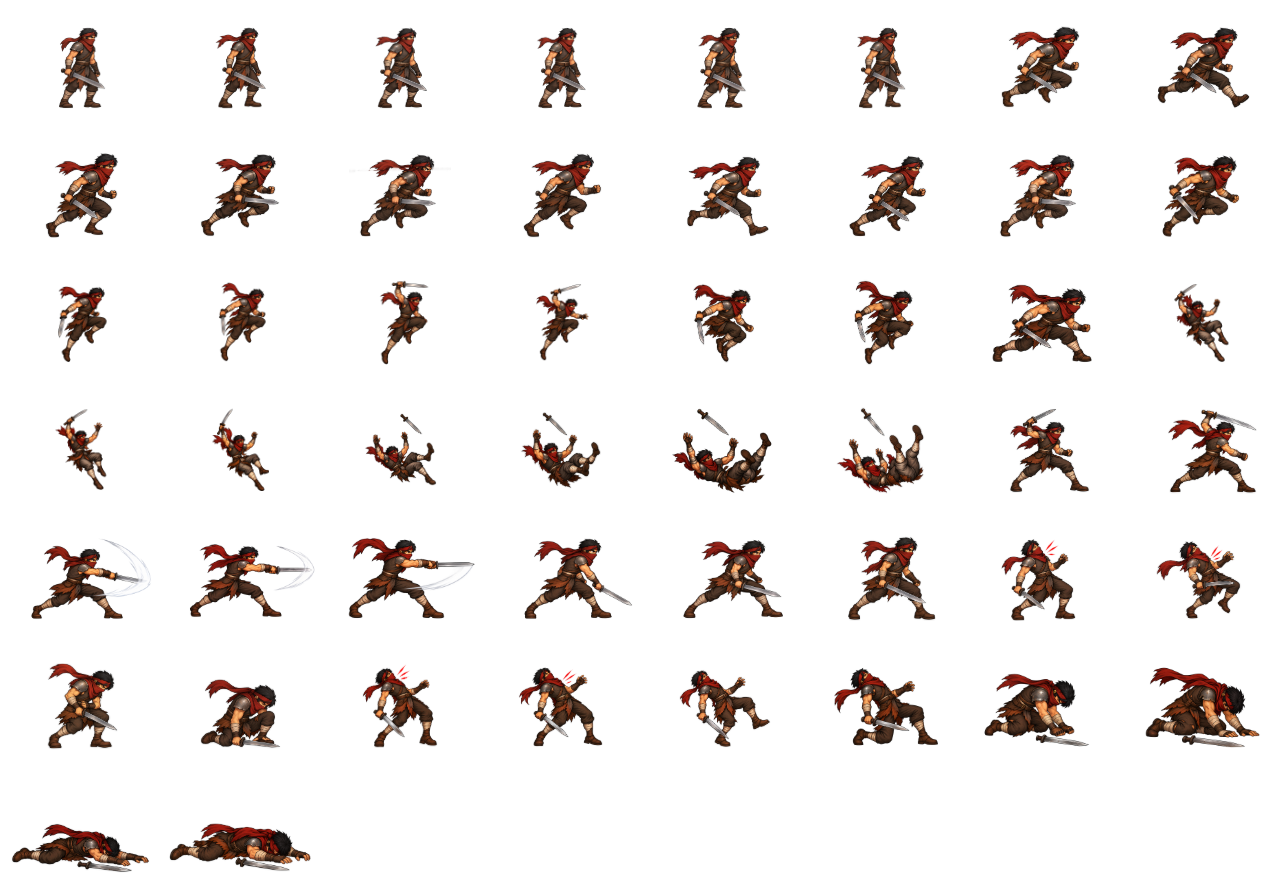
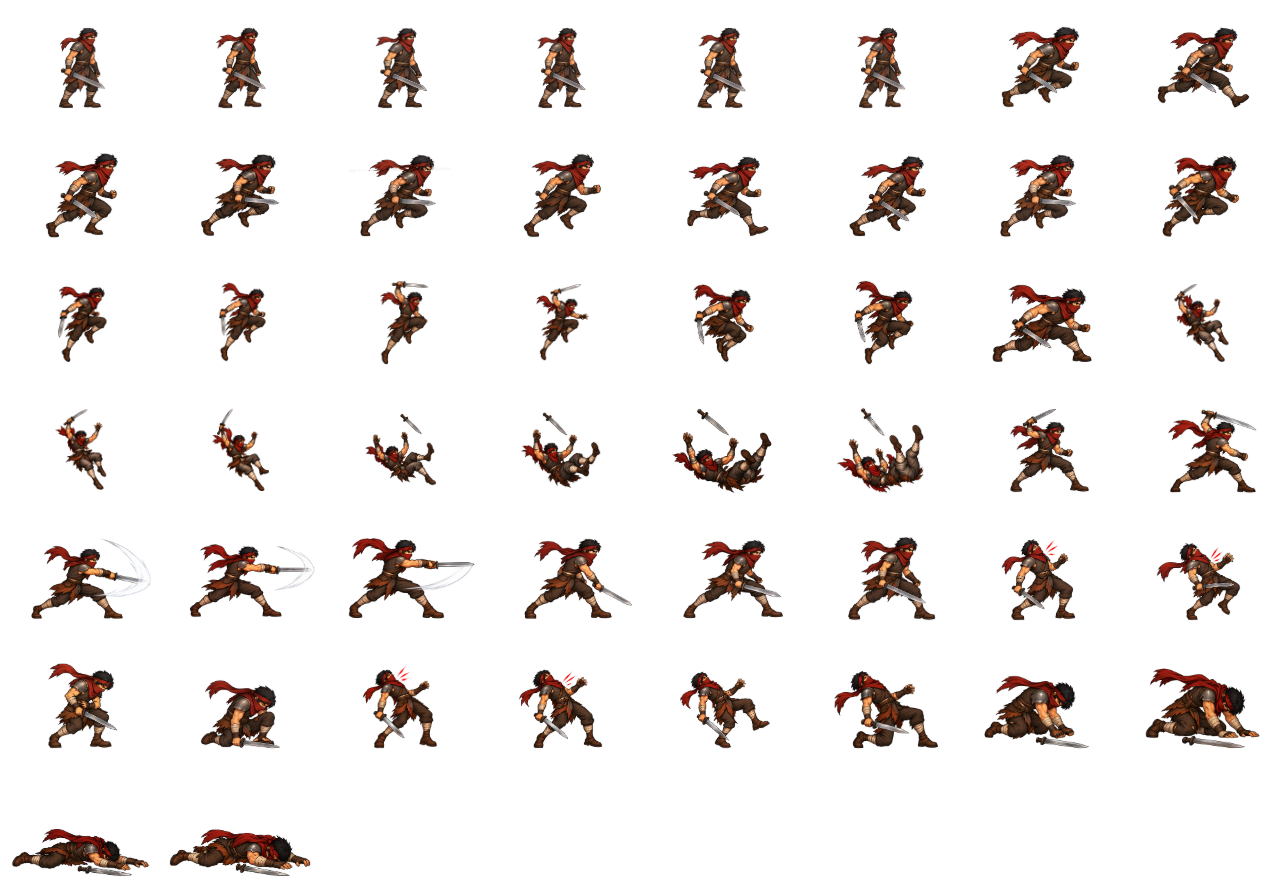
enemy fix

diff --git a/src/game/entities/Raider.js b/src/game/entities/Raider.js
@@ -27,7 +27,7 @@ export default class Raider extends Phaser.Physics.Arcade.Sprite {
   update(player, delta) {
     this.elapsed += delta;
     if (this.dead) {
-      if (!this.deathUntil && (this.body.blocked.down || this.y > this.scene.killY)) { this.animate('death'); this.deathUntil = this.elapsed + 700; }
+      if (!this.deathUntil && ((this.body.blocked.down && this.body.velocity.y >= 0) || this.y > this.scene.killY)) { this.setVelocity(0); this.animate('death'); this.deathUntil = this.elapsed + 700; }
       if (this.deathUntil && this.elapsed >= this.deathUntil) { this.emit('coin-drop', { x: this.x, y: Math.min(this.y, 480) - 12, count: this.coinDrop }); this.destroy(); }
       return;
     }
@@ -87,13 +87,18 @@ export default class Raider extends Phaser.Physics.Arcade.Sprite {
     if (!guarded) this.health = Math.max(0, this.health - amount);
     if (!guarded || broken) {
       this.hurtUntil = this.elapsed + (broken ? 900 : 220); this.state = 'hurt'; this.animate('hurt');
-      this.setVelocity(this.x < sourceX ? -170 : 170, -180);
+      this.setVelocity(this.x < sourceX ? -170 : 170, this.body.blocked.down ? 0 : this.body.velocity.y);
     }
     this.emit('damage', this.health);
     if (!this.health) this.die();
     return true;
   }
-  die() { this.dead = true; this.state = 'death'; this.setVelocityX(0); this.healthBar.clear(); this.cue.setText(''); this.animate('fall'); this.emit('death'); }
+  die() {
+    this.dead = true; this.state = 'death';
+    // Cancel the fatal hit's upward knockback, but keep gravity and terrain collisions.
+    this.setVelocity(0, Math.max(0, this.body.velocity.y));
+    this.healthBar.clear(); this.cue.setText(''); this.animate('fall'); this.emit('death');
+  }
   // Contact alone is harmless; only the visible sword swing can deal damage.
   contact() {}
 }

diff --git a/tests/enemy-death-art.spec.js b/tests/enemy-death-art.spec.js
@@ -1,0 +1,36 @@
+import { test, expect } from '@playwright/test';
+
+test('every visible death frame rests on the same ground as its physics body', async ({ page }) => {
+  await page.goto('/#/play/1-1');
+  await page.waitForFunction(() => window.__AARANYA_GAME__?.scene.getScene('GameScene')?.player?.hasLanded);
+  const offsets = await page.evaluate(() => {
+    const s = window.__AARANYA_GAME__.scene.getScene('GameScene');
+    const e = s.enemies.getChildren()[0];
+    s.physics.pause();
+    e.update = () => {};
+    e.body.reset(1040, 490); e.body.updateFromGameObject();
+    const texture = s.textures.get('enemy1');
+    const canvas = document.createElement('canvas'); canvas.width = 160; canvas.height = 128;
+    const ctx = canvas.getContext('2d');
+    return Array.from({ length: 8 }, (_, i) => {
+      const f = texture.get(`enemy1-death-${i}`);
+      ctx.clearRect(0, 0, 160, 128);
+      ctx.drawImage(texture.getSourceImage(), f.cutX, f.cutY, 160, 128, 0, 0, 160, 128);
+      const data = ctx.getImageData(0, 0, 160, 128).data;
+      let bottom = 0;
+      for (let y = 0; y < 128; y++) for (let x = 0; x < 160; x++) {
+        if (data[(y * 160 + x) * 4 + 3] >= 128) bottom = y + 1;
+      }
+      return e.body.bottom - (e.y - e.displayOriginY + bottom);
+    });
+  });
+  for (const gap of offsets) expect(Math.abs(gap)).toBeLessThanOrEqual(1);
+  await page.evaluate(() => {
+    const s = window.__AARANYA_GAME__.scene.getScene('GameScene');
+    const e = s.enemies.getChildren()[0];
+    e.anims.stop(); e.setFrame('enemy1-death-7');
+    s.cameras.main.stopFollow(); s.cameras.main.centerOn(e.x, e.y - 150);
+  });
+  await page.waitForTimeout(100);
+  await page.screenshot({ path: 'test-results/enemy-death-grounded.png' });
+});

diff --git a/tests/enemy-death.spec.js b/tests/enemy-death.spec.js
@@ -1,0 +1,27 @@
+import { test, expect } from '@playwright/test';
+
+for (const position of [{ name: 'ground', x: 1040, y: 490 }, { name: 'tile', x: 920, y: 390 }, { name: 'air', x: 1040, y: 150 }]) {
+  test(`enemy fatal hit on ${position.name} waits for grounded death`, async ({ page }) => {
+    await page.goto('/#/play/1-1');
+    await page.waitForFunction(() => window.__AARANYA_GAME__?.scene.getScene('GameScene')?.player?.hasLanded);
+    const initial = await page.evaluate(position => {
+      const s = window.__AARANYA_GAME__.scene.getScene('GameScene');
+      const e = s.enemies.getChildren()[0];
+      e.body.reset(position.x, position.y); e.body.updateFromGameObject();
+      e.state = 'patrol'; e.health = 1; e.invincibleUntil = 0;
+      window.enemyDeathStarted = false; window.enemyDeathFloated = false;
+      e.on('animationstart', anim => {
+        if (anim.key === 'enemy1-death') {
+          window.enemyDeathStarted = true;
+          window.enemyDeathFloated = !e.body.blocked.down || e.body.velocity.y !== 0;
+        }
+      });
+      e.takeDamage(1, e.x - 50);
+      return { enabled: e.body.enable, vy: e.body.velocity.y };
+    }, position);
+    expect(initial.enabled).toBe(true); expect(initial.vy).toBeGreaterThanOrEqual(0);
+    await page.waitForFunction(() => window.enemyDeathStarted);
+    expect(await page.evaluate(() => window.enemyDeathFloated)).toBe(false);
+    await page.waitForFunction(() => window.__AARANYA_GAME__.scene.getScene('GameScene').enemies.getLength() === 3);
+  });
+}

diff --git a/tests/enemy-hurt.spec.js b/tests/enemy-hurt.spec.js
@@ -1,0 +1,24 @@
+import { test, expect } from '@playwright/test';
+
+test('enemy hurt frames touch ground and damage does not launch a grounded enemy', async ({ page }) => {
+  await page.goto('/#/play/1-1');
+  await page.waitForFunction(() => window.__AARANYA_GAME__?.scene.getScene('GameScene')?.enemies?.getChildren()[0]?.body.blocked.down);
+  const result = await page.evaluate(() => {
+    const s = window.__AARANYA_GAME__.scene.getScene('GameScene'), e = s.enemies.getChildren()[0];
+    e.takeDamage(1, e.x - 50);
+    const vy = e.body.velocity.y;
+    const texture = s.textures.get('enemy1');
+    const c = document.createElement('canvas'); c.width = 160; c.height = 128;
+    const ctx = c.getContext('2d');
+    const feet = Array.from({ length: 4 }, (_, i) => {
+      const f = texture.get(`enemy1-hurt-${i}`); ctx.clearRect(0, 0, 160, 128);
+      ctx.drawImage(texture.getSourceImage(), f.cutX, f.cutY, 160, 128, 0, 0, 160, 128);
+      const rgba = ctx.getImageData(0, 0, 160, 128).data;
+      for (let y = 127; y >= 0; y--) for (let x = 0; x < 160; x++) if (rgba[(y * 160 + x) * 4 + 3] >= 128) return y + 1;
+      return 0;
+    });
+    return { vy, feet, health: e.health };
+  });
+  expect(result.vy).toBe(0); expect(result.health).toBe(2);
+  for (const foot of result.feet) expect(Math.abs(foot - 108)).toBeLessThanOrEqual(1);
+});

diff --git a/src/game/art/enemyAnimationConfig.js b/src/game/art/enemyAnimationConfig.js
@@ -4,8 +4,8 @@ export const enemyAnimationConfig = {
   jump: { count: 8, duration: 420, repeat: 0, anchorX: 0.50 },
   fall: { count: 7, duration: 350, repeat: 0, anchorX: 0.50 },
   attack: { count: 8, duration: 560, repeat: 0, anchorX: 0.42 },
-  hurt: { count: 4, duration: 220, repeat: 0, anchorX: 0.50 },
-  death: { count: 8, duration: 700, repeat: 0, anchorX: 0.50 },
+  hurt: { count: 4, duration: 220, repeat: 0, anchorX: 0.50, alignFeet: true },
+  death: { count: 8, duration: 700, repeat: 0, anchorX: 0.50, alignFeet: true },
 };
 export const enemyVisual = { width: 160, height: 128, footX: 80, footY: 108 };
 export const enemyAttackFrames = [4, 5, 6];
